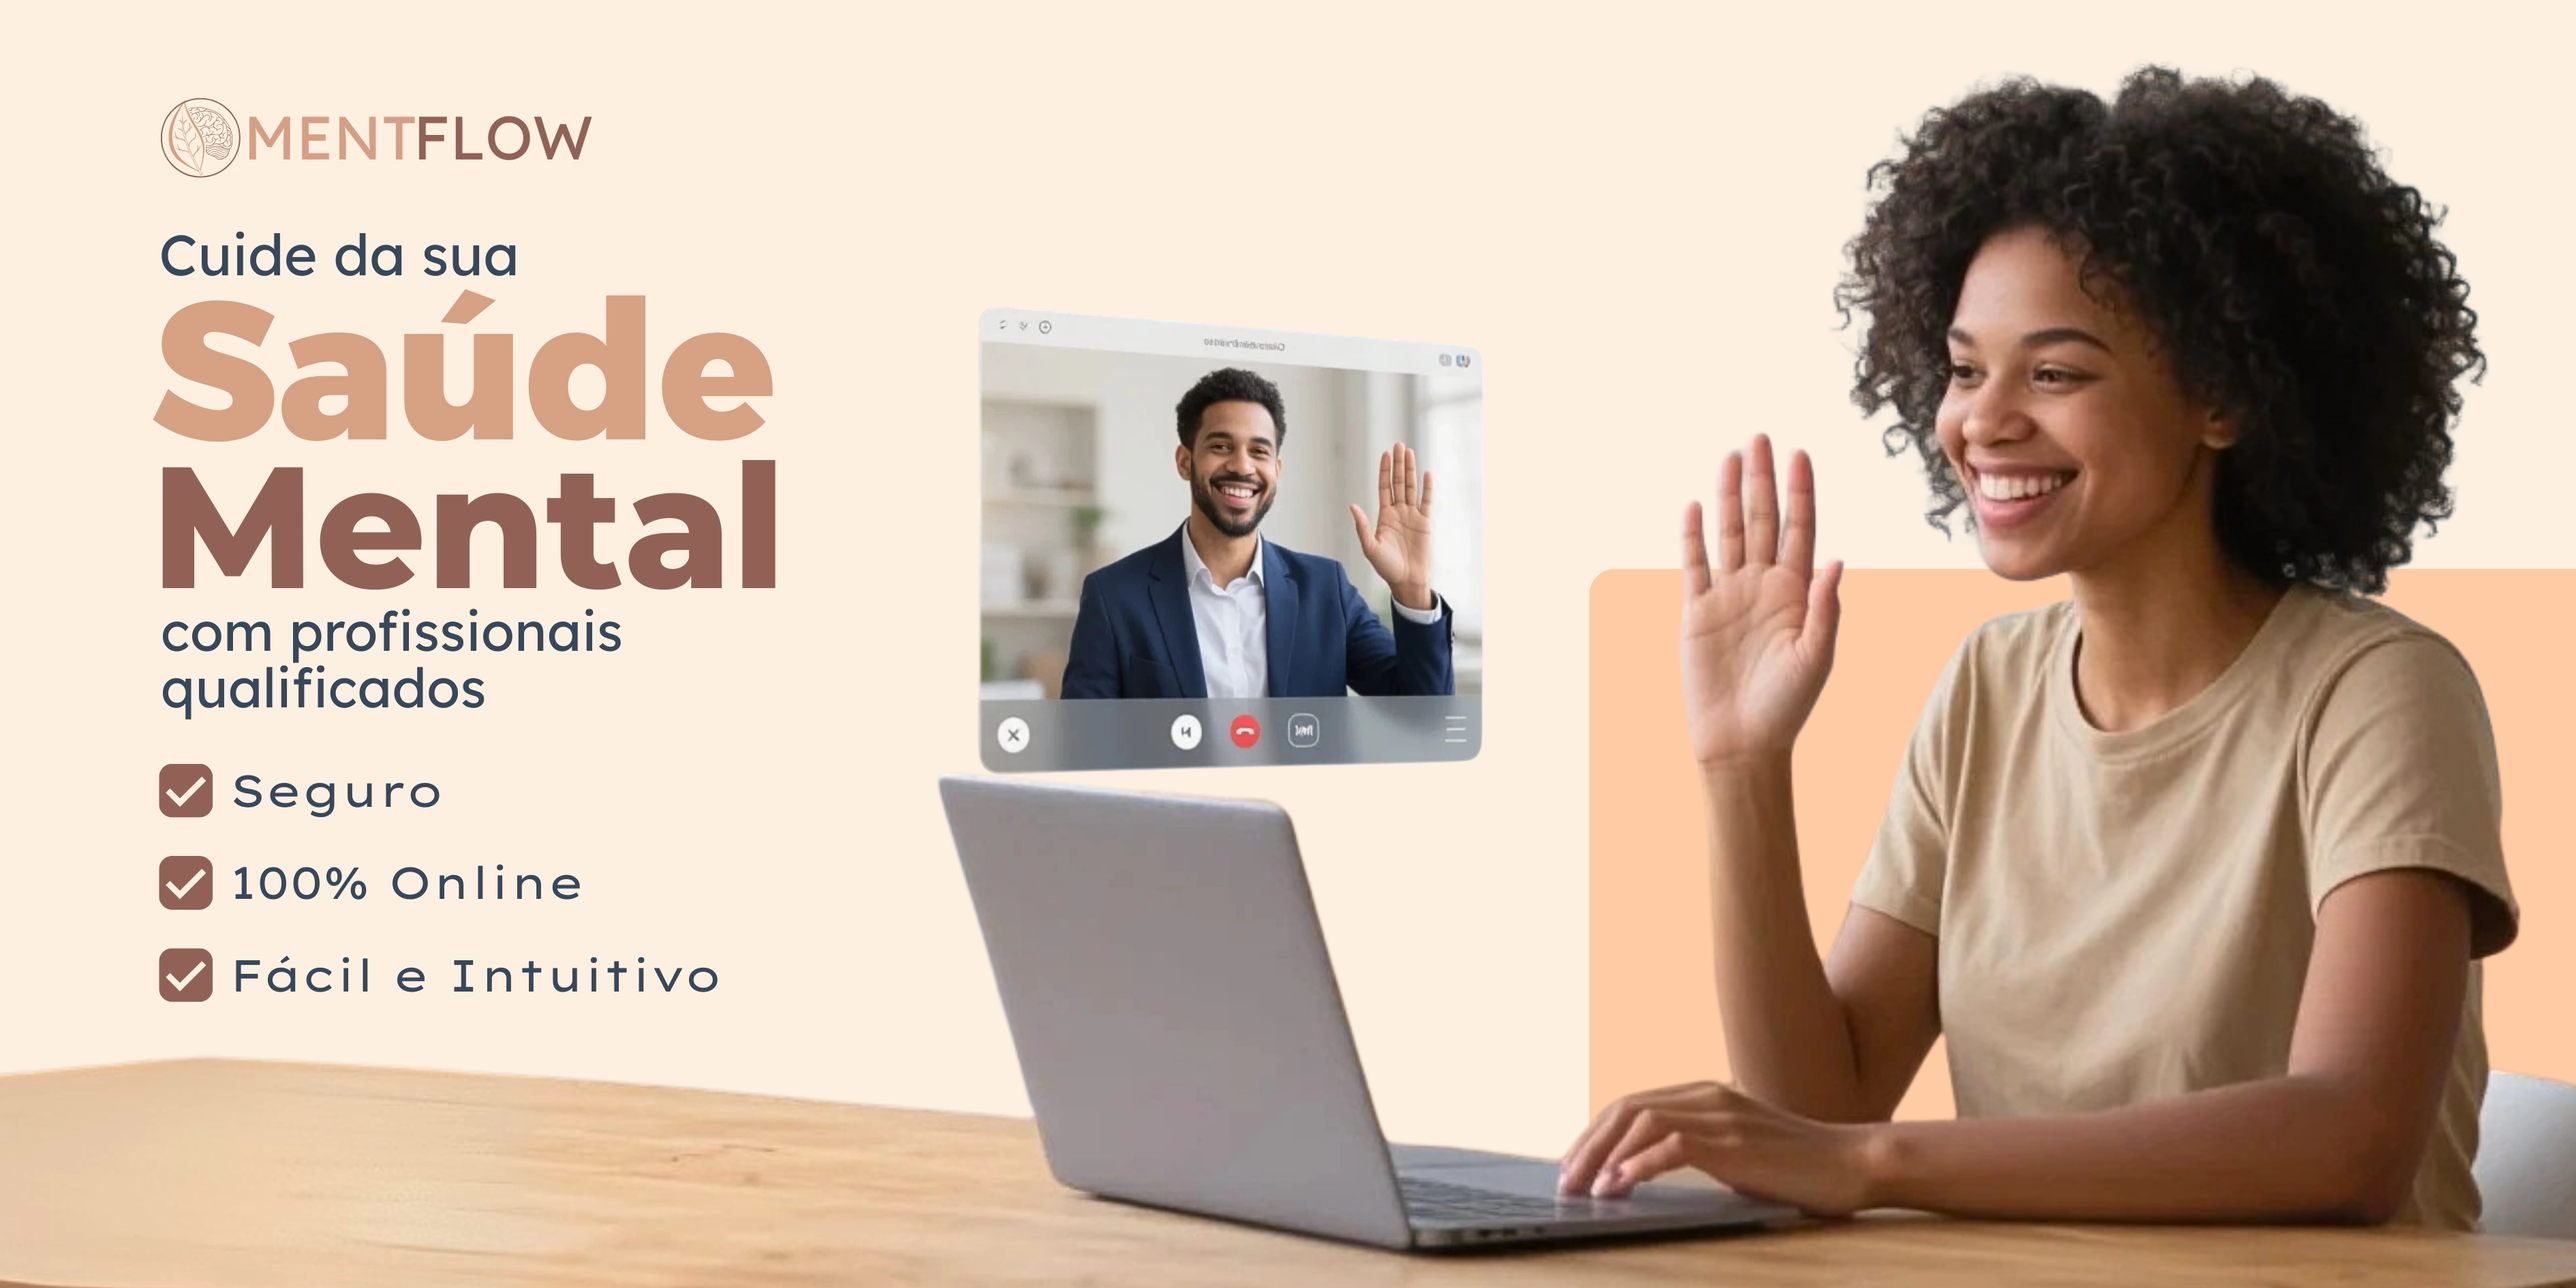
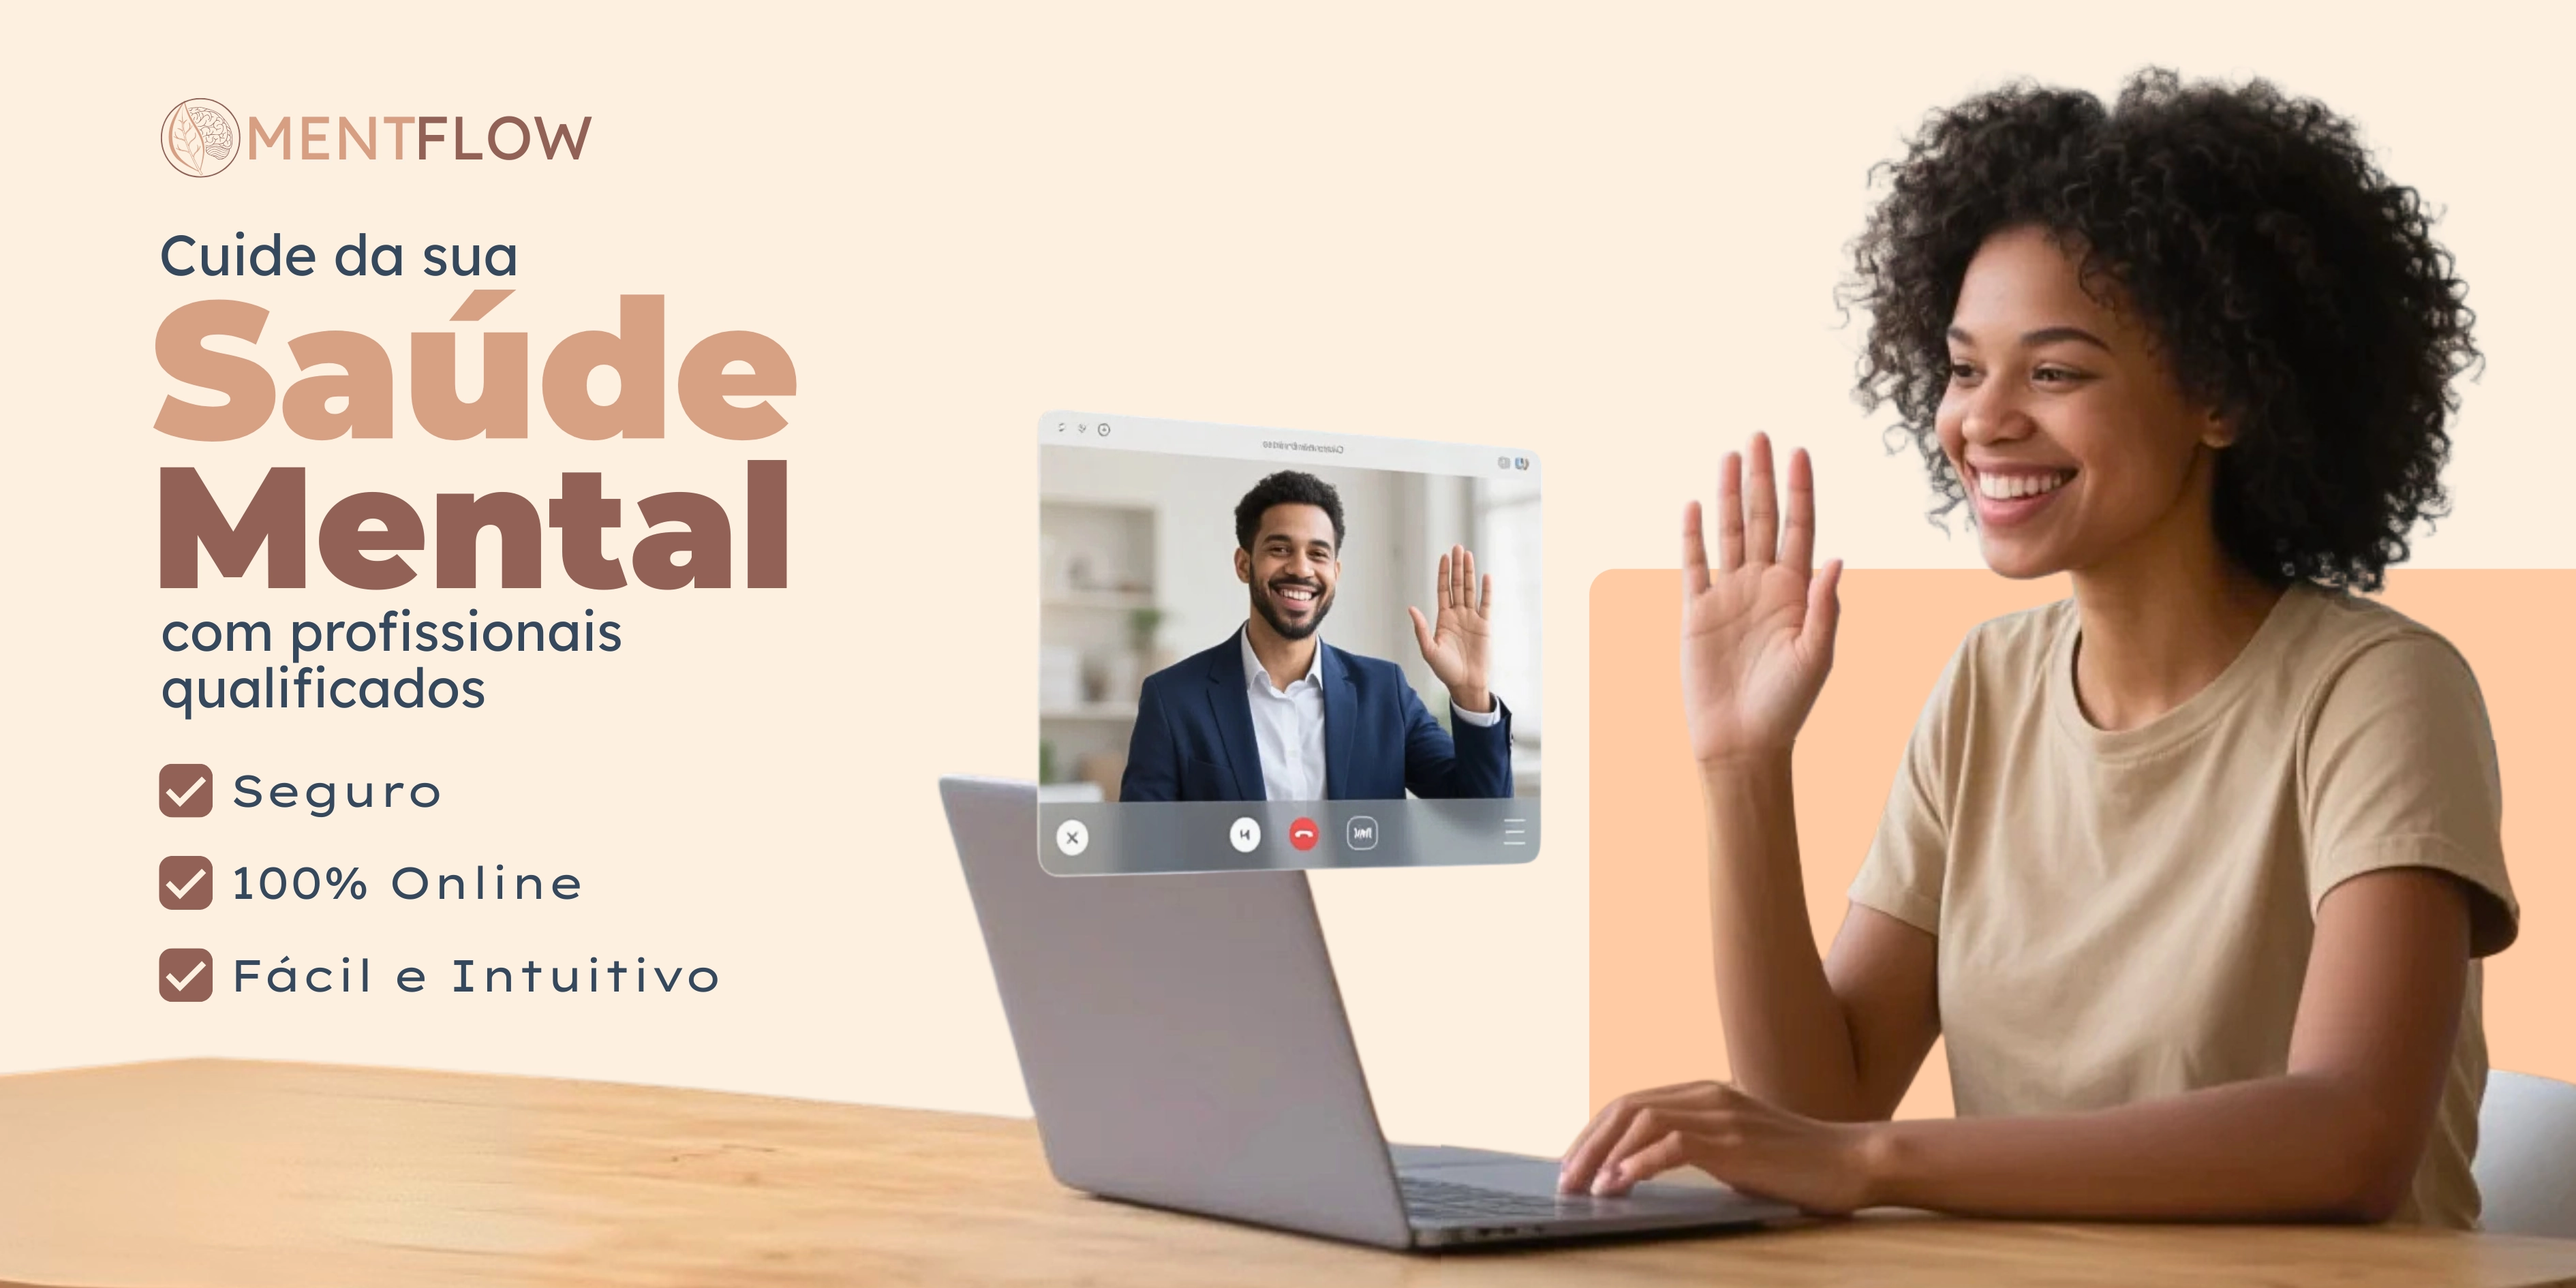
new hero-section

diff --git a/src/pages/Landing.css b/src/pages/Landing.css
@@ -1,41 +1,3 @@
-:root {
-    /* Nova paleta de cores */
-    --cor-primaria: #d7a084;
-    --cor-secundaria: #916156;
-    --cor-background: #fdf0e0;
-    --cor-destaque: #35485d;
-    --cor-branco: #fff;
-
-    /* Variações e tons */
-    --cor-primaria-light: rgba(215, 160, 132, 0.1);
-    --cor-primaria-medium: rgba(215, 160, 132, 0.2);
-    --cor-secundaria-light: rgba(145, 97, 86, 0.1);
-    --cor-destaque-light: rgba(53, 72, 93, 0.1);
-
-    /* Texto */
-    --cor-texto: #35485d;
-    --cor-texto-claro: rgba(53, 72, 93, 0.7);
-    --cor-texto-muito-claro: rgba(53, 72, 93, 0.5);
-
-    /* Sombras */
-    --sombra-suave: 0 2px 20px rgba(53, 72, 93, 0.08);
-    --sombra-media: 0 8px 30px rgba(53, 72, 93, 0.12);
-    --sombra-forte: 0 20px 60px rgba(53, 72, 93, 0.15);
-    --sombra-colorida: 0 10px 40px rgba(215, 160, 132, 0.2);
-
-    /* Bordas e transições */
-    --border-radius: 12px;
-    --border-radius-large: 20px;
-    --border-radius-xl: 32px;
-    --transition: all 0.4s cubic-bezier(0.4, 0, 0.2, 1);
-    --transition-fast: all 0.2s ease-out;
-
-    /* Gradientes */
-    --gradient-primary: linear-gradient(135deg, var(--cor-primaria), var(--cor-secundaria));
-    --gradient-soft: linear-gradient(135deg, var(--cor-background), var(--cor-branco));
-    --gradient-overlay: linear-gradient(135deg, rgba(215, 160, 132, 0.9), rgba(145, 97, 86, 0.9));
-}
-
 * {
     margin: 0;
     padding: 0;
@@ -292,15 +254,24 @@ body {
 
 /* Hero Section */
 .hero {
-    min-height: 100vh;
+ 
     display: flex;
     align-items: center;
-    background: var(--gradient-soft);
-
+    background-image: url(../assets/banner.webp);
+    background-size: cover;
+    background-position: right top;
     position: relative;
     overflow: hidden;
-    background-attachment: fixed;
+
 }
+
+.hero img{
+    object-fit: cover;
+    height: auto;
+    margin: 0;
+}
+
+
 
 /* .hero::before {
     content: '';
@@ -329,7 +300,7 @@ body {
     50% { transform: translateY(-20px) rotate(5deg); }
 } */
 
-.hero-content {
+/* .hero-content {
     display: grid;
     grid-template-columns: 1fr 1fr;
     gap: 4rem;
@@ -435,7 +406,7 @@ body {
     border-radius: var(--border-radius-xl);
     box-shadow: var(--sombra-forte);
     animation: fadeIn 1s ease-out 1s both;
-}
+} */
 
 /* Animações */
 @keyframes slideInLeft {
@@ -502,7 +473,7 @@ body {
 .section-badge {
     display: inline-block;
     background: var(--cor-destaque-light);
-    box-shadow: 0 15px 15px rgba(215, 160, 132, 0.6);
+    box-shadow: 0 0px 15px rgba(215, 160, 132, 0.6);
     padding: 1rem 3rem;
     border: 1px solid var(--cor-primaria);
     border-radius: 50px;
@@ -512,7 +483,7 @@ body {
         font-size: 3rem;
         font-weight: 800;
         color: var(--cor-secundaria);
-        text-shadow: 0 -10px 20px rgba(215, 160, 132, 0.8);
+
     }
 }
 

diff --git a/src/pages/Landing.jsx b/src/pages/Landing.jsx
@@ -20,6 +20,7 @@ import {
 import Reveal from '../components/Reveal'
 import '../pages/Landing.css'
 import BannerTest from '../assets/banner-test1.webp'
+import Banner from '../assets/banner.webp'
 
 const MentFlowLanding = () => {
   const [headerVisible, setHeaderVisible] = useState(false)
@@ -259,11 +260,29 @@ const MentFlowLanding = () => {
 
       {/* Hero Section */}
       <section className='hero'>
-        <div className='box-image'>
-          <img src={BannerTest} alt='' />
-        </div>
+        <img src={Banner} alt='' />
+        {/* <div className='box-hero-text'>
+          <p className='header-headline'>Cuide da sua</p>
+          <div className="highlight">
+            <h1 className='headline1'>Saúde</h1>
+            <h1 className='headline2'>Mental</h1>
+          </div>
 
-        {/* <div className="container">
+          <p className='footer-headline'>com profissionais<br />qualificados</p>
+
+          <div className="hero-bullets">
+            <span>Seguro</span>
+            <span>100% Seguro</span>
+            <span>Fácil e Intuitivo</span>
+          </div>
+        </div> */}
+        {/* <div className='box-image'>
+          <img src={BannerTest} alt='' />
+        </div> */}
+      </section>
+
+
+      {/* <div className="container">
                     <div className="hero-content">
                         <div className="hero-text">
                             <div className="hero-badge">✨ Sua jornada de bem-estar começa aqui</div>
@@ -294,7 +313,7 @@ const MentFlowLanding = () => {
                         </div>
                     </div>
                 </div> */}
-      </section>
+
 
       {/* Como Funciona */}
       <Reveal>

diff --git a/src/styles/colors.css b/src/styles/colors.css
@@ -1,7 +1,37 @@
 :root {
-  --cor-principal: #F6D5D5;
-  --cor-background: #F1E4D1;
-  --cor-destaque: #D3E0C4;
-  --cor-suporte: #BFA6A0;
-  --cor-texto: #4F4F4F;
+  /* Nova paleta de cores */
+    --cor-primaria: #d7a084;
+    --cor-secundaria: #916156;
+    --cor-background: #fdf0e0;
+    --cor-destaque: #35485d;
+    --cor-branco: #fff;
+
+    /* Variações e tons */
+    --cor-primaria-light: rgba(215, 160, 132, 0.1);
+    --cor-primaria-medium: rgba(215, 160, 132, 0.2);
+    --cor-secundaria-light: rgba(145, 97, 86, 0.1);
+    --cor-destaque-light: rgba(53, 72, 93, 0.1);
+
+    /* Texto */
+    --cor-texto: #35485d;
+    --cor-texto-claro: rgba(53, 72, 93, 0.7);
+    --cor-texto-muito-claro: rgba(53, 72, 93, 0.5);
+
+    /* Sombras */
+    --sombra-suave: 0 2px 20px rgba(53, 72, 93, 0.08);
+    --sombra-media: 0 8px 30px rgba(53, 72, 93, 0.12);
+    --sombra-forte: 0 20px 60px rgba(53, 72, 93, 0.15);
+    --sombra-colorida: 0 10px 40px rgba(215, 160, 132, 0.2);
+
+    /* Bordas e transições */
+    --border-radius: 12px;
+    --border-radius-large: 20px;
+    --border-radius-xl: 32px;
+    --transition: all 0.4s cubic-bezier(0.4, 0, 0.2, 1);
+    --transition-fast: all 0.2s ease-out;
+
+    /* Gradientes */
+    --gradient-primary: linear-gradient(135deg, var(--cor-primaria), var(--cor-secundaria));
+    --gradient-soft: linear-gradient(135deg, var(--cor-background), var(--cor-branco));
+    --gradient-overlay: linear-gradient(135deg, rgba(215, 160, 132, 0.9), rgba(145, 97, 86, 0.9));
 }

diff --git a/src/main.jsx b/src/main.jsx
@@ -5,7 +5,6 @@ import './styles/colors.css'
 import './styles/fonts.css'
 import './index.css'
 import Landing from './pages/Landing'
-import Hero from './components/HeroSection/hero'
 import MainLayout from './layouts/MainLayout'
 import ScrollToTop from './components/ScrollToTop'
 
@@ -17,7 +16,7 @@ ReactDOM.createRoot(document.getElementById('root')).render(
       <ScrollToTop />
       <MainLayout>
         <Routes>
-          <Route path='/hero' element={<Hero />} />
+
           <Route path='/' element={<Landing />} />
           {/* Futuras rotas para login, dashboards, etc. */}
         </Routes>
